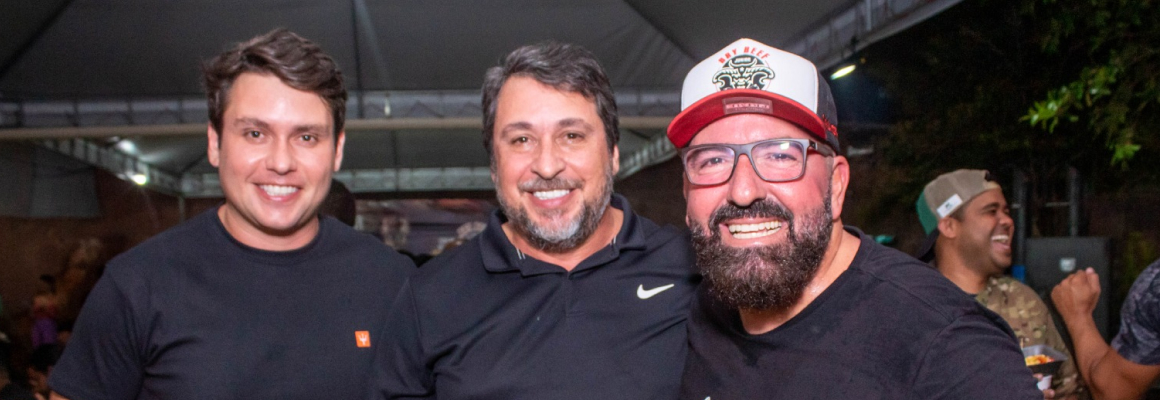
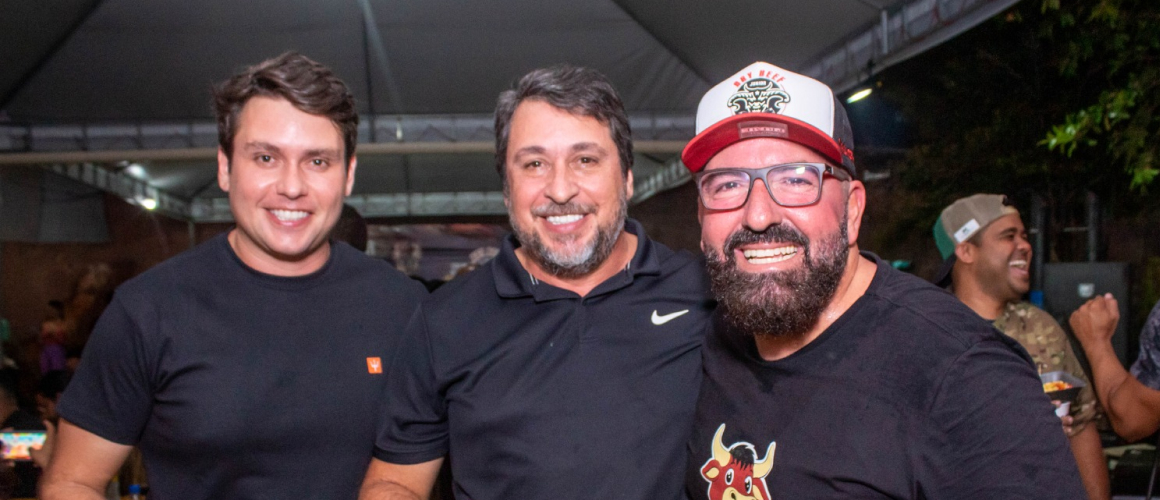
Adiciona object fit ao bg

diff --git a/css/main.css b/css/main.css
@@ -84,8 +84,8 @@
   .teste p {
     font-size: 14px;
   }
-/*   .image-container img {
+  .image-container img {
     min-height: 300px;
     object-fit: cover;
-  } */
+  }
 }
